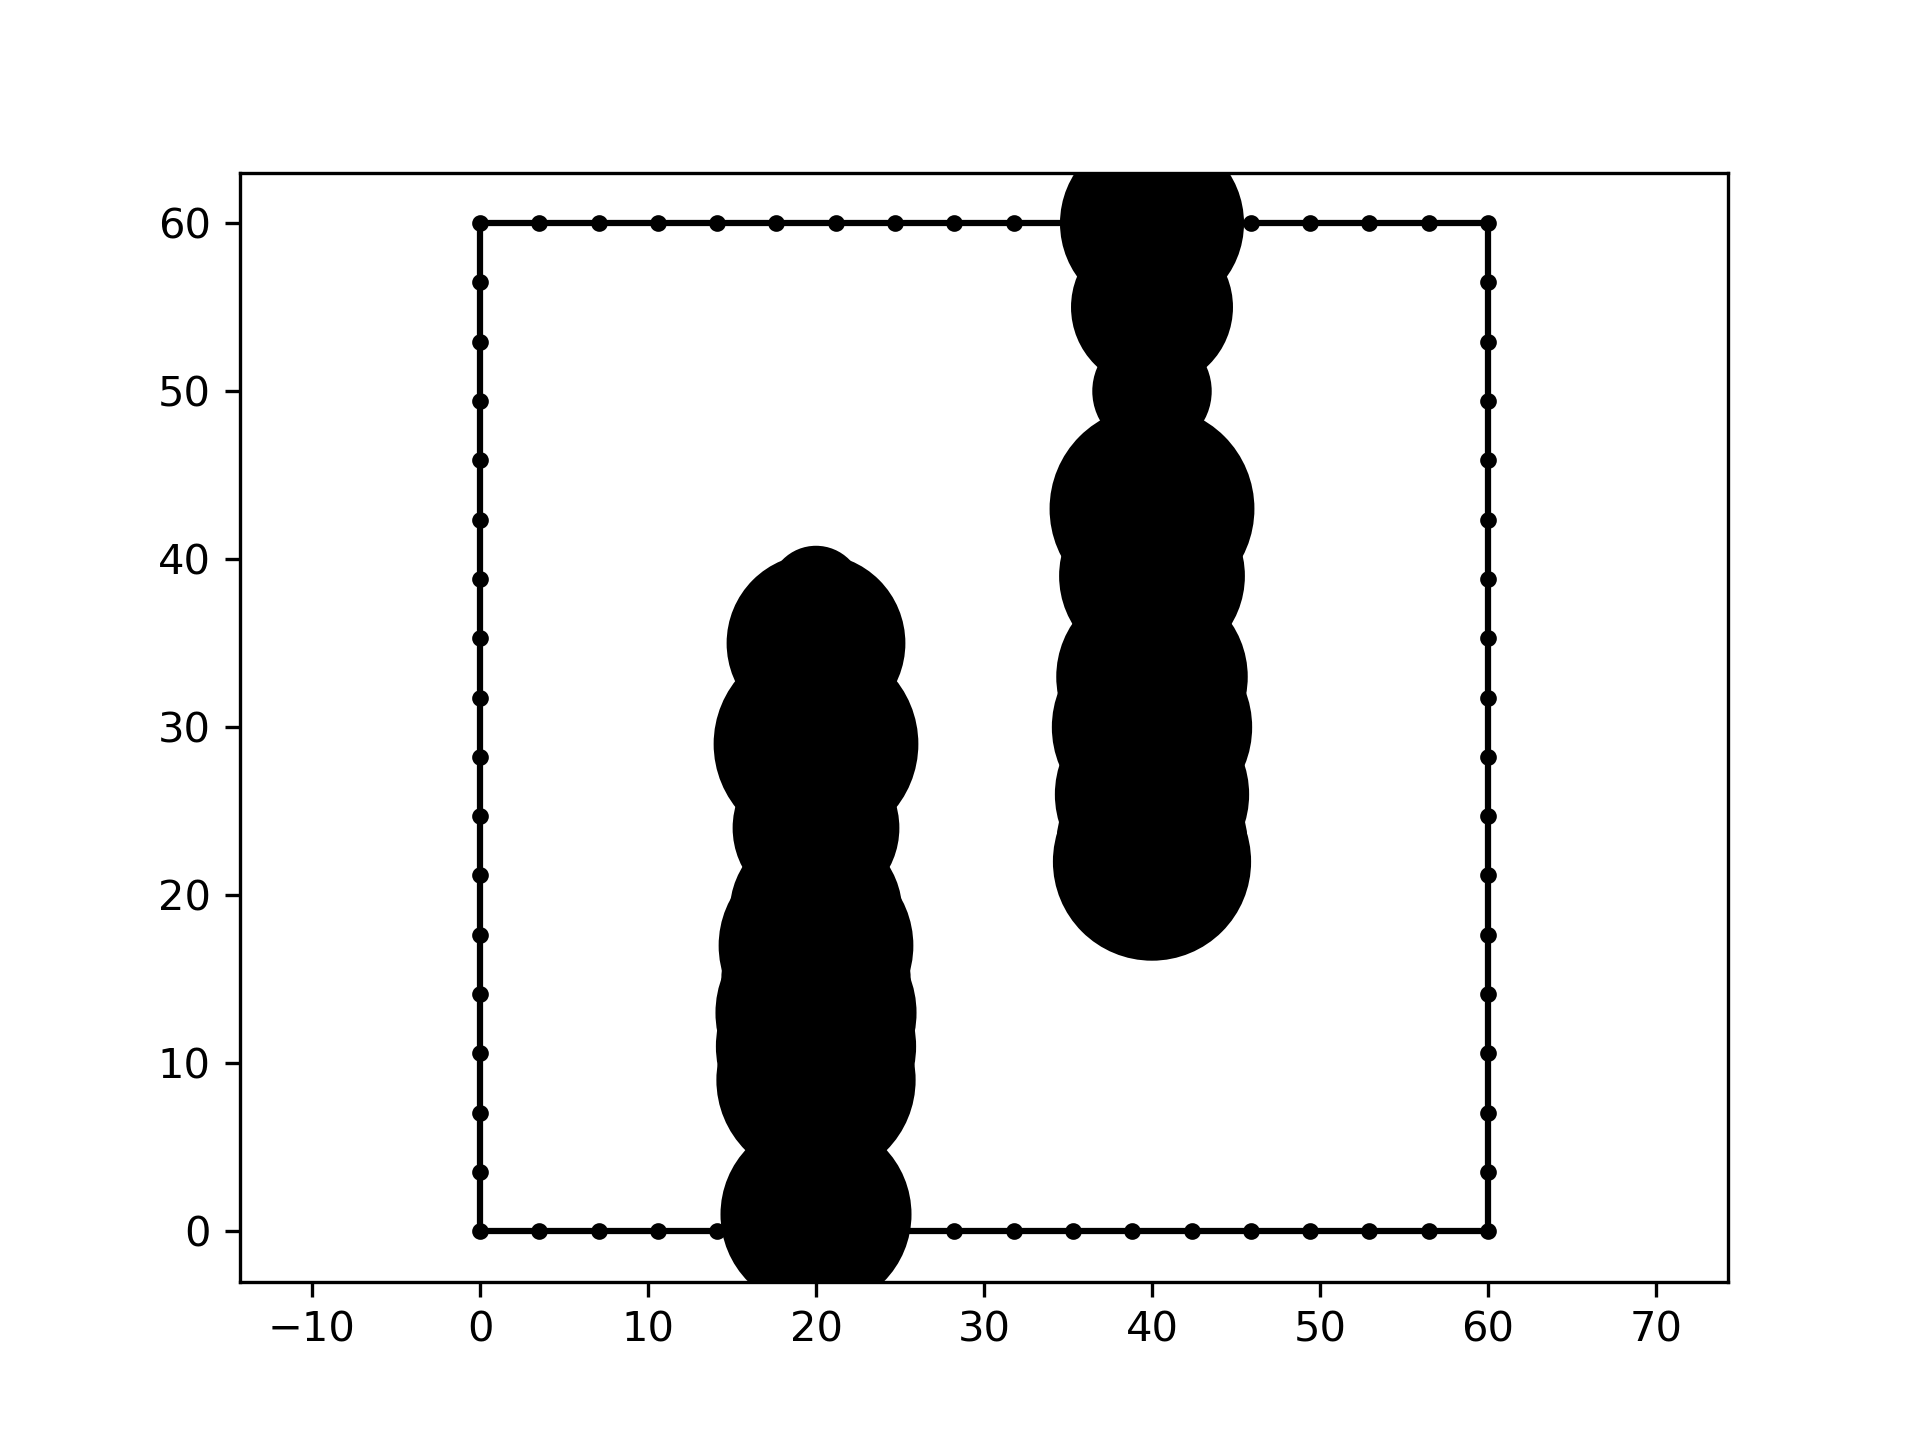
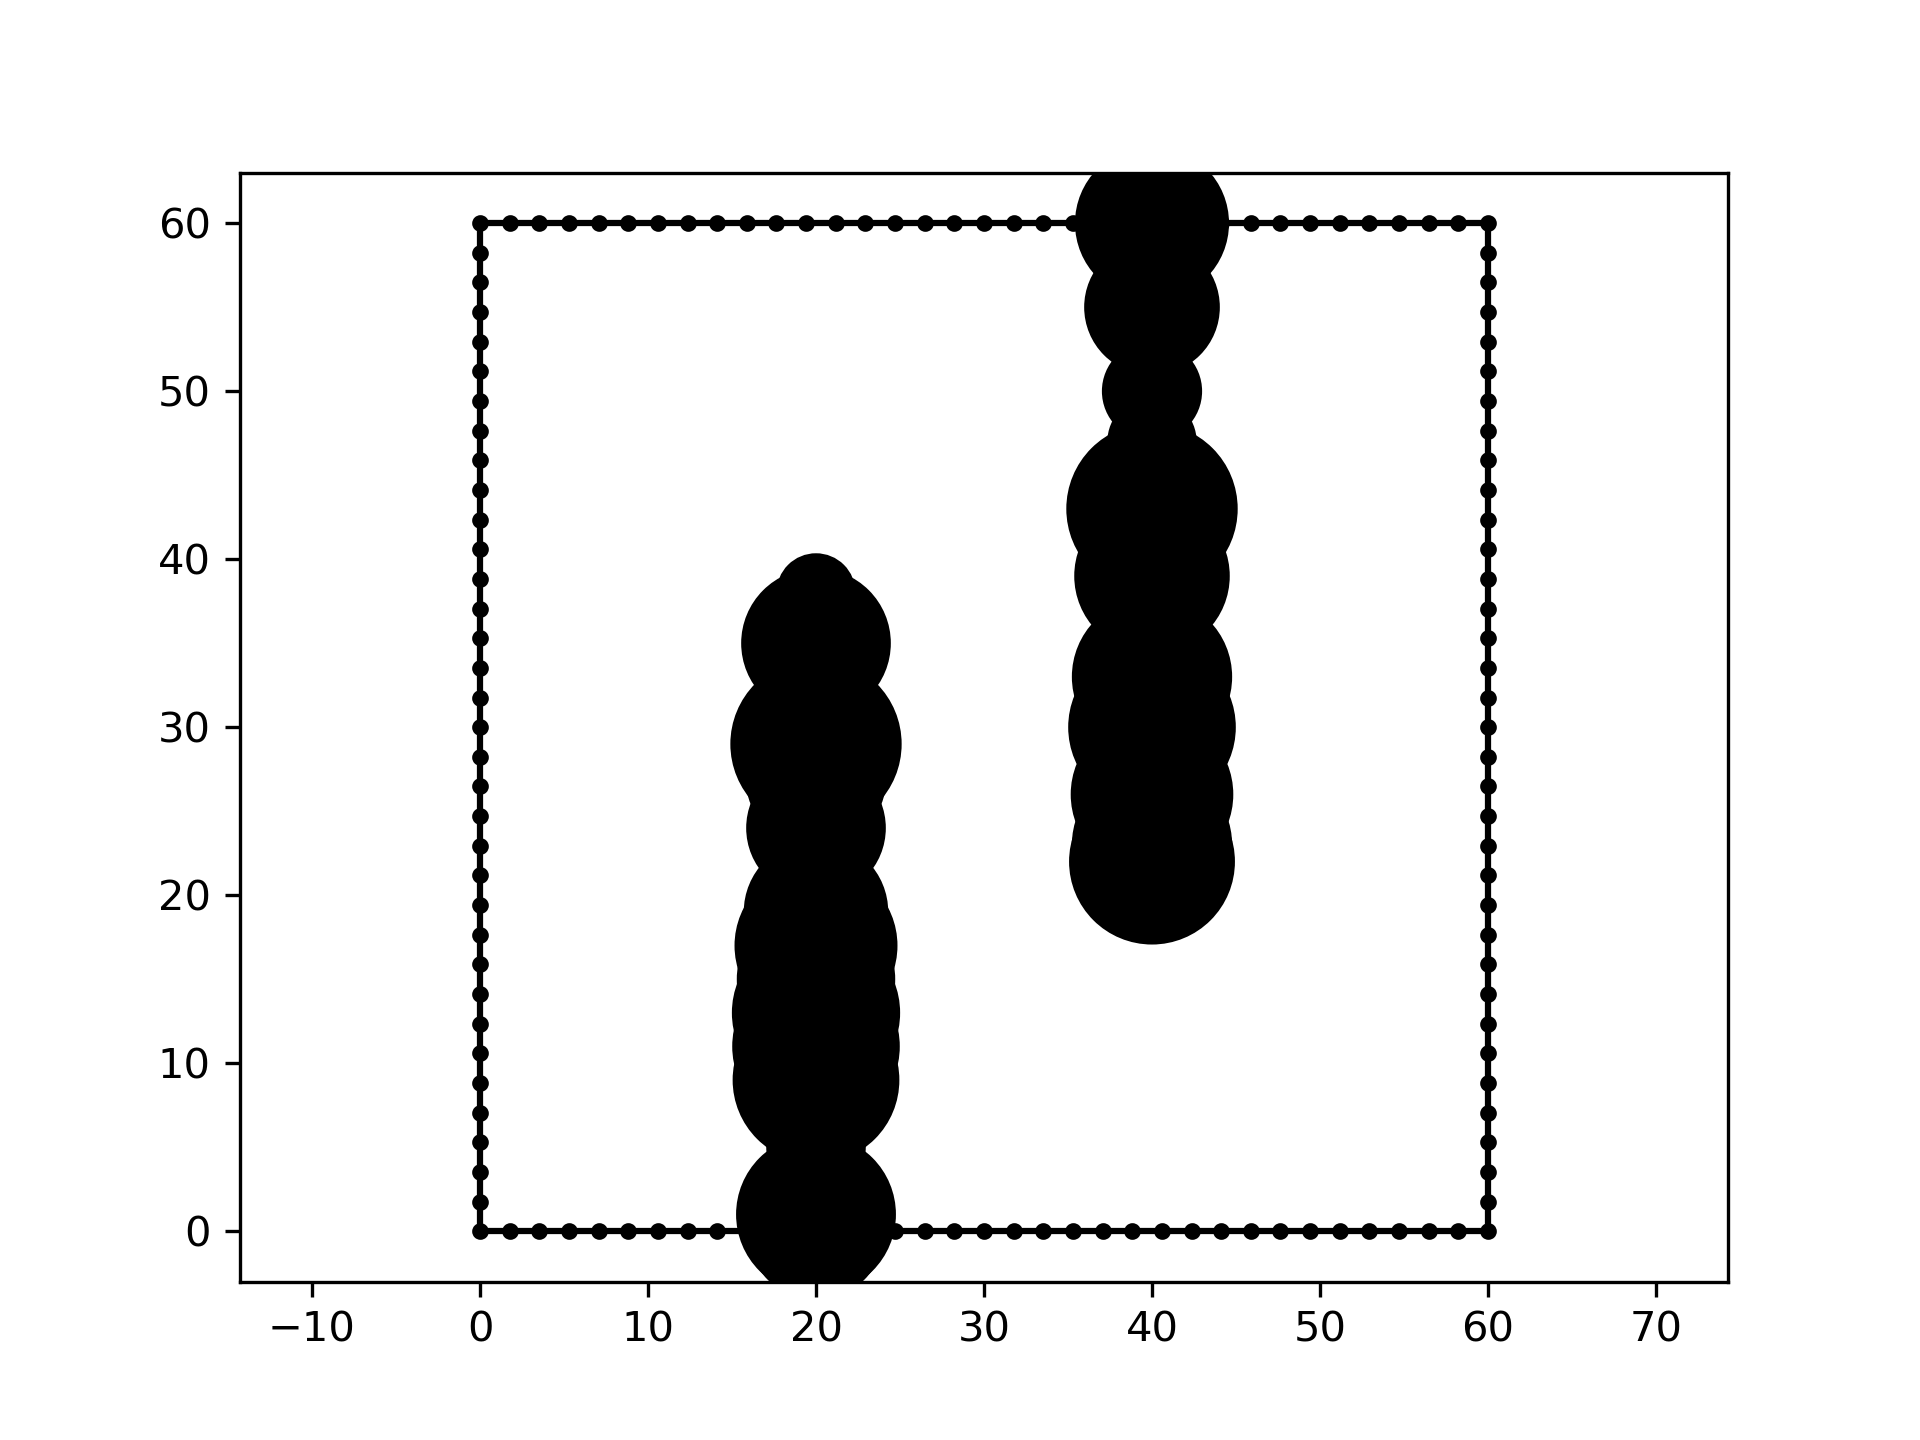
[PRM] Implements Repair PRM

diff --git a/src/core/prm/prm.py b/src/core/prm/prm.py
@@ -141,11 +141,18 @@ class Prm:
             # try to sample a starting point on the first path segment & an ending point on the last path segment
             sel_start_node = None
             sel_start_freedom = float('-inf')
+            path_first = [path[0]]
+            cost_first = 0.0
             for i in range(len(path)):
                 cur_node: RoadMapNode = path[i]
-                if (i > 0) and (not cur_node.from_node_uid_dict[path[i - 1].node_uid]):
-                    # "pre --> cur" is blocked! -> break
-                    break
+                if i > 0:
+                    if not cur_node.from_node_uid_dict[path[i - 1].node_uid]:
+                        # "pre --> cur" is blocked! -> break
+                        break
+                    else:
+                        # otherwise, this edge is fine -> add & cost
+                        path_first.append(cur_node)
+                        cost_first += path[i - 1].euclidean_distance(other=cur_node)
                 if eval_freedom:
                     cur_freedom = self.calc_node_freedom(node=cur_node)
                     if cur_freedom >= sel_start_freedom:    # `=` means select as latter nodes as possible
@@ -157,11 +164,18 @@ class Prm:
 
             sel_end_node = None
             sel_end_freedom = float('-inf')
+            path_last = [path[-1]]
+            cost_last = 0.0
             for i in range(len(path)):
                 cur_node: RoadMapNode = path[len(path) - 1 - i]
-                if (i > 0) and (not cur_node.to_node_uid_dict[path[len(path) - i].node_uid]):
-                    # "cur --> next" is blocked! -> break
-                    break
+                if i > 0:
+                    if not cur_node.to_node_uid_dict[path[len(path) - i].node_uid]:
+                        # "cur --> next" is blocked! -> break
+                        break
+                    else:
+                        # otherwise, this edge is fine -> add node & cost
+                        path_last.append(cur_node)
+                        cost_last += cur_node.euclidean_distance(other=path[len(path) - i])
                 if eval_freedom:
                     cur_freedom = self.calc_node_freedom(node=cur_node)
                     if cur_freedom >= sel_end_freedom:  # `=` means select as former nodes as possible
@@ -170,19 +184,60 @@ class Prm:
                 else:
                     # simply select the first node
                     sel_end_node = cur_node
+            path_last.reverse()
 
             if animation:
                 # plot the selected start/end node
                 self.draw_graph(start=start, goal=goal, road_map=self.road_map,
                                 path=([start] + [[cur_node.x, cur_node.y] for cur_node in path] + [goal]),
                                 pause=False)
+                draw_path(path=([start] + [[cur_node.x, cur_node.y] for cur_node in path_first]), c='g')
+                draw_path(path=([[cur_node.x, cur_node.y] for cur_node in path_last] + [goal]), c='g')
+                draw_query_points(start=[sel_start_node.x, sel_start_node.y], goal=[sel_end_node.x, sel_end_node.y], c='b')
+                plt.pause(0.001)
+                plt.waitforbuttonpress()
+                self.draw_graph(start=start, goal=goal, road_map=self.road_map.get_clear_roadmap(), pause=False)
+                draw_path(path=([start] + [[cur_node.x, cur_node.y] for cur_node in path_first]), c='g')
+                draw_path(path=([[cur_node.x, cur_node.y] for cur_node in path_last] + [goal]), c='g')
                 draw_query_points(start=[sel_start_node.x, sel_start_node.y], goal=[sel_end_node.x, sel_end_node.y], c='b')
                 plt.pause(0.001)
                 plt.waitforbuttonpress()
 
-            # TODO: RRT now!
+            # RRT now!
+            rrt_path, rrt_cost, rrt_road_map = self._rrt_base(start=sel_start_node, goal=sel_end_node,
+                                                              animation=animation)
+            if rrt_path is None:
+                # RRT still cannot fix the problem
+                return None, -1
+
+            # otherwise, RRT found a path!
+            # append the RRT paths to the road map (only new nodes are appended, judging from uid)
+            for rrt_node in rrt_path:
+                if rrt_node.node_uid in self.road_map.get():
+                    continue
+                new_rrt_node = RoadMapNode(x=rrt_node.x, y=rrt_node.y, node_uid=rrt_node.node_uid)
+                self.road_map.add_node(node=new_rrt_node)
+            for i in range(len(rrt_path) - 1):
+                cur_rrt_node = rrt_path[i]
+                nxt_rrt_node = rrt_path[i + 1]
+                self.road_map.add_edge(from_uid=cur_rrt_node.node_uid, to_uid=nxt_rrt_node.node_uid)
+
+            # postprocess path
+            road_map_path = path_first + rrt_path + path_last
+            road_map_cost = cost_first + rrt_cost + cost_last
+            path, cost = self._postproc_path_with_cost(path=road_map_path, cost=road_map_cost,
+                                                       start=start, goal=goal,
+                                                       start_sample_node=start_sample_node,
+                                                       end_sample_node=end_sample_node)
+
+            if animation:
+                self.draw_graph(start=start, goal=goal, road_map=self.road_map.get_clear_roadmap(), path=path, pause=False)
+                draw_query_points(start=[sel_start_node.x, sel_start_node.y], goal=[sel_end_node.x, sel_end_node.y], c='b')
+                plt.pause(0.001)
+                plt.waitforbuttonpress()
 
             self._record_time(timer=self.query_timer, metric='repair', val=(time.time() - t1))
+            return path, cost
         finally:
             self._postproc_timers()
 

diff --git a/src/debug/prm/debug_prm.py b/src/debug/prm/debug_prm.py
@@ -110,7 +110,7 @@ def test_add_obstacle():
     plt.waitforbuttonpress()
 
     # add obstacle
-    add_obstacle = RoundObstacle(x=32, y=22, r=2, obstacle_type=ObstacleType.NORMAL, obstacle_uid='add')
+    add_obstacle = RoundObstacle(x=30, y=37, r=1, obstacle_type=ObstacleType.NORMAL, obstacle_uid='add')
     logger.info('Add one obstacle: %s' % add_obstacle)
     my_prm.add_obstacle_to_environment(obstacle=add_obstacle)
     my_prm.draw_graph(start=test_query['start'], goal=test_query['goal'],
@@ -135,11 +135,17 @@ def test_add_obstacle():
     analyze_path(my_prm, my_path, my_path_cost, test_query)
     plt.waitforbuttonpress()
 
+    # query 4th time
+    logger.info('4th query.')
+    my_path, my_path_cost = my_prm.plan(**test_query)
+    analyze_path(my_prm, my_path, my_path_cost, test_query)
+    plt.waitforbuttonpress()
+
 
 if __name__ == '__main__':
-    test_prm(
-        use_rrt=True,
-        # show_map=True,
-        # animation=False
-    )
-    # test_add_obstacle()
+    # test_prm(
+    #     use_rrt=True,
+    #     # show_map=True,
+    #     # animation=False
+    # )
+    test_add_obstacle()

diff --git a/src/sample_data/sample_data.py b/src/sample_data/sample_data.py
@@ -23,8 +23,8 @@ def get_test_problem(cur_seed: Optional[int] = None, init_n_samples: Optional[in
     random.seed(cur_seed)
 
     cur_map_range = [0, 60]
-    cur_robot_radius = 2
-    max_or = 6
+    cur_robot_radius = 1
+    max_or = 5
 
     # obstacles
     o_dict = ObstacleDict(map_range=cur_map_range, robot_radius=cur_robot_radius)
